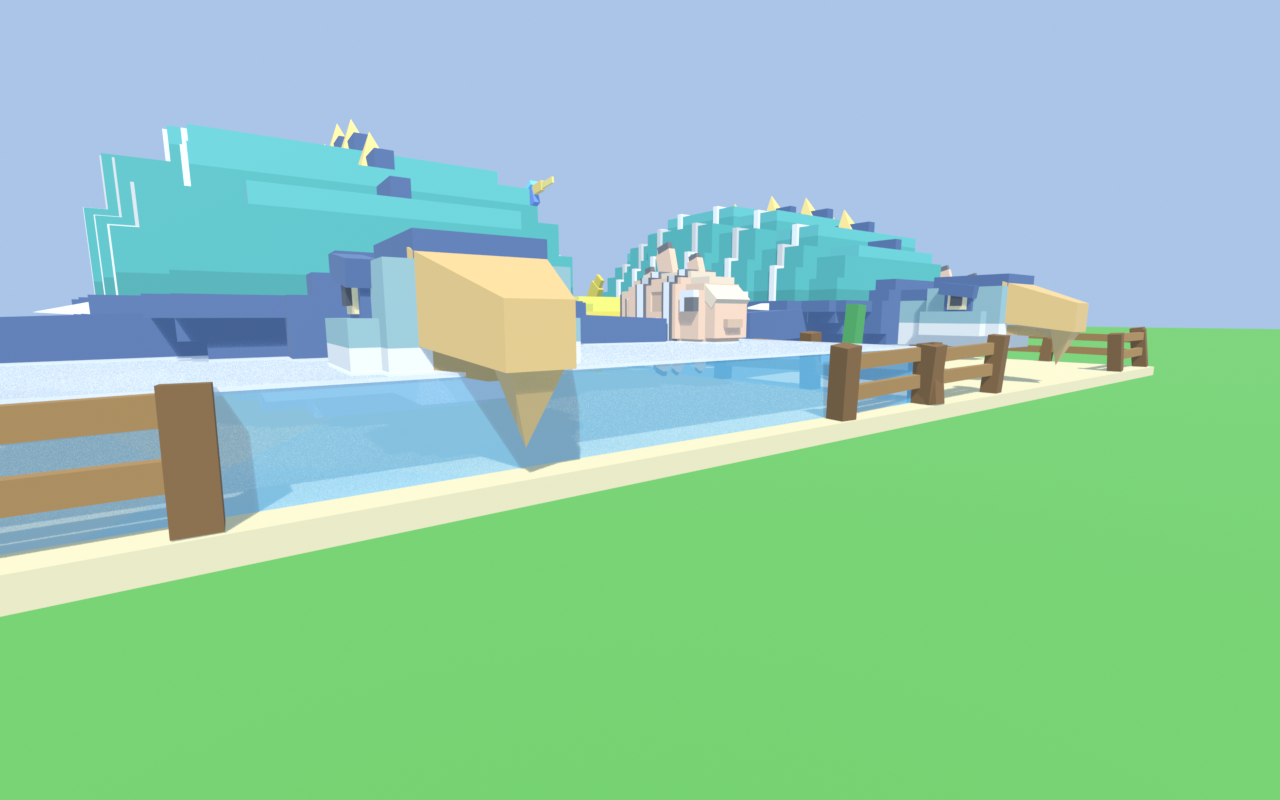
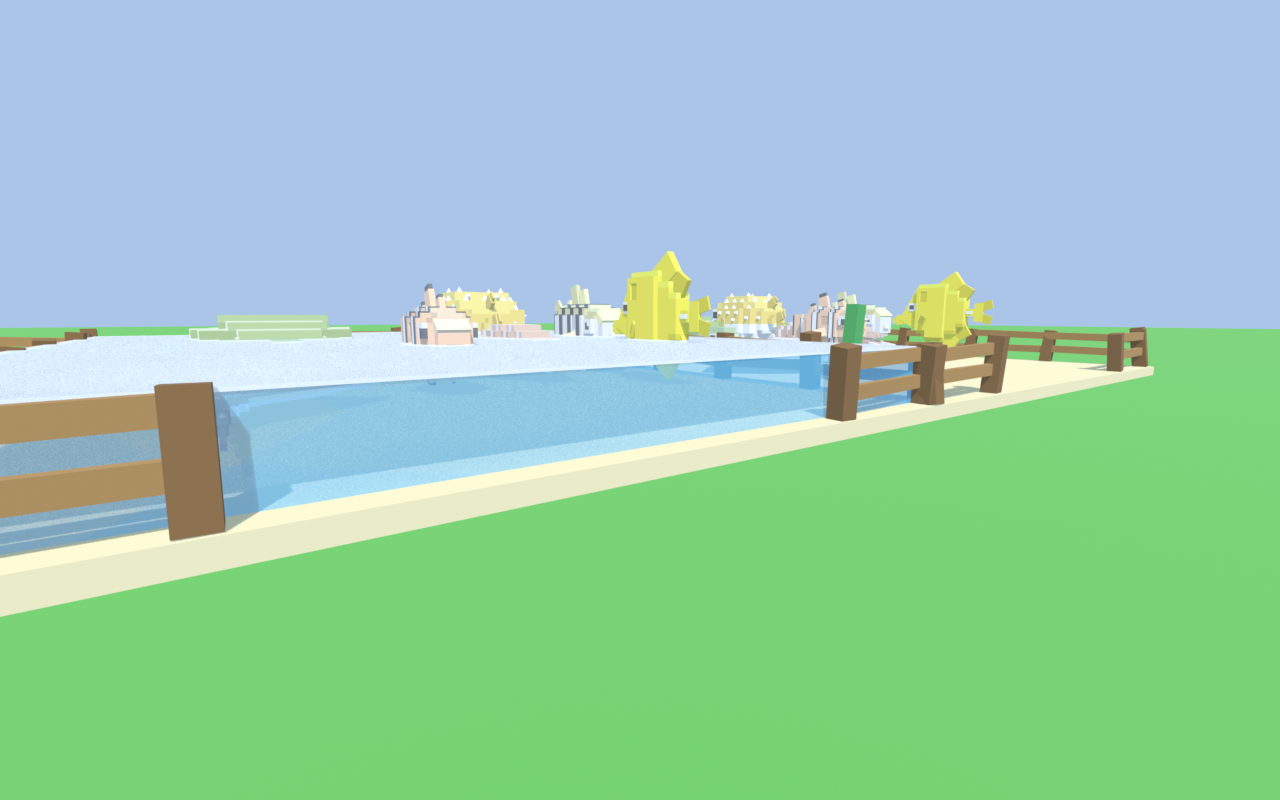
Hub review 2 corrected: S at the reference's 230 x 180 with eight pens (checked), R dropped, fish at their true sizes

Changed region(s): [[0.0, 0.1562, 0.875, 0.5938], [0.7812, 0.4688, 0.8125, 0.5]]

diff --git a/tools/map/hub_scale_plan.py b/tools/map/hub_scale_plan.py
@@ -1,10 +1,11 @@
 """The hub's scale against the reference's, from above, all at one scale (2026-11-22, the user: "the scale feels
 wrong, whether it's in the actual scale of the hub or the texture, or it's just the walk speed"). Three plans:
 ours as it stands (read from the place: art/map/hub_study/dump_2026-11-22.csv), the reference's (measured from our
-frames: docs/reference/ride-a-dino-map.md, "The hub, measured", good to about 15%), and R, ours at the reference's
-size with its pens (50 by 60, sharing fences, in a U). Schematic: walls as a line, pens as boxes.
+frames: docs/reference/ride-a-dino-map.md, "The hub, measured", good to about 15%), and S, ours at the reference's
+own size (230 by 180) with eight pens (50 by 60, sharing fences, in a U), checked: see check(). Schematic: walls as a line, pens as boxes.
 
 usage: python tools/map/hub_scale_plan.py [out.png]"""
+import math
 import os
 import sys
 
@@ -92,31 +93,49 @@ ref = panel("The reference: about 230 x 180, pens 50 x 60, fence 4 high",
             "own pen to the strip 110 (4 s at 28) | stalls 17-25 off the strip | pens drawn, not measured",
             (-115, 115, -210, 0), ref_pens, (-48, 48, -30, 0), (0, -100), [((-75, -150), (-20, -30), "110")],
             None)
-# R: ours at about the reference's size with all eight pens and every station: 290 x 196. The back four face the
-# strip; the side pens stand against the side walls with their gates on the inner face, clear of the back row's corners
-r_pens = [(-100, -50, -220, -160), (-50, 0, -220, -160), (0, 50, -220, -160), (50, 100, -220, -160),
-          (-145, -95, -155, -95), (-145, -95, -95, -35), (95, 145, -155, -95), (95, 145, -95, -35)]
-r_things = (stations((-30, -62), (30, -62), (0, -122), (-71, -49), (70, -48), (-72, -36))
-            + trainers([(-75, -152), (-25, -152), (25, -152), (75, -152), (-87, -125), (-87, -65), (87, -125), (87, -65)]))
+GATE, REACH = 12, 8  # a gate's width, and the clear floor wanted in front of it
 
 
-def overlaps(pens, things):
-    """every pair of boxes that overlap (touching is fine): the pens, the stations and the pads"""
-    boxes = [("pen%d" % i, a, b, c, e) for i, (a, b, c, e) in enumerate(pens)]
-    boxes += [(t[4] or "box", t[0] - t[2] / 2, t[0] + t[2] / 2, t[1] - t[3] / 2, t[1] + t[3] / 2) for t in things]
-    bad = []
-    for i, p_ in enumerate(boxes):
-        for q in boxes[i + 1:]:
-            if p_[1] < q[2] and q[1] < p_[2] and p_[3] < q[4] and q[3] < p_[4]:
-                bad.append((p_[0], q[0]))
+def check(name, hub, strip, pens, things, gates):
+    """what a sketch must keep: nothing overlaps, all of it inside the hub and off the strip, every gate with REACH studs
+    of clear floor in front. gates: (x, z, dx, dz) the gate's middle and the way out of the pen. Returns each gate's
+    straight line to the strip's inner edge"""
+    boxes = [("pen%d" % (i + 1), a, b, c, e) for i, (a, b, c, e) in enumerate(pens)]
+    boxes += [("%s@%g,%g" % (t[4] or "pad/board", t[0], t[1]), t[0] - t[2] / 2, t[0] + t[2] / 2, t[1] - t[3] / 2, t[1] + t[3] / 2) for t in things]
+
+    def hit(p_, q):
+        return p_[1] < q[2] and q[1] < p_[2] and p_[3] < q[4] and q[3] < p_[4]
+
+    bad = [(p_[0], q[0]) for i, p_ in enumerate(boxes) for q in boxes[i + 1:] if hit(p_, q)]
+    sbox = ("strip",) + tuple(strip)
+    bad += [(p_[0], "strip") for p_ in boxes if hit(p_, sbox)]
+    bad += [(p_[0], "outside") for p_ in boxes if p_[1] < hub[0] or p_[2] > hub[1] or p_[3] < hub[2] or p_[4] > strip[2]]
+    walks = []
+    for i, (x, z, dx, dz) in enumerate(gates):
+        ax, az = x + dx * REACH / 2, z + dz * REACH / 2
+        hx, hz = (REACH / 2, GATE / 2) if dx else (GATE / 2, REACH / 2)
+        lane = ("gate%d" % (i + 1), ax - hx, ax + hx, az - hz, az + hz)
+        bad += [(lane[0], q[0]) for q in boxes if hit(lane, q)]
+        walks.append(round(math.hypot(max(abs(x) - strip[1], 0), strip[2] - z)))
+    print(name, "gates to the strip", walks, "BAD " + str(bad) if bad else "ok")
     return bad
 
 
-assert not overlaps(r_pens, r_things), overlaps(r_pens, r_things)
-r = panel("R (a sketch): 290 x 196, eight pens 50 x 60, every station",
-          "back pen to the strip 128 | side pens 5 to 60 | the stalls on the way out",
-          (-145, 145, -228, 0), r_pens, (-48, 48, -32, 0), (0, -88), [((0, -160), (0, -32), "128")],
-          (-95, 95, -160, -32), things=r_things)
+# S: the reference's own size, 230 wide and 180 from the strip's inner edge (z -32) to the back wall (z -212). Four pens
+# on the back; two down each side, 50 into the hub and 60 along the wall, which leaves 15 studs of each back corner
+# pen's front open: its gate is there
+s_pens = [(-100, -50, -212, -152), (-50, 0, -212, -152), (0, 50, -212, -152), (50, 100, -212, -152),
+          (-115, -65, -152, -92), (-115, -65, -92, -32), (65, 115, -152, -92), (65, 115, -92, -32)]
+s_gates = [(-57.5, -152, 0, 1), (-25, -152, 0, 1), (25, -152, 0, 1), (57.5, -152, 0, 1),
+           (-65, -122, 1, 0), (-65, -72, 1, 0), (65, -122, -1, 0), (65, -72, -1, 0)]
+s_things = [(-26, -60, 29, 20, "Sell", RED), (26, -60, 29, 20, "Auras", PURPLE), (22, -118, 29, 41, "Fuse", BLUE),
+            (-27, -108, 47, 18, "Index", GOLD), (55, -47, 20, 29, "Sub", TEAL), (-60, -46, 8, 26, "", GREY)]
+s_things += trainers([(-45, -146), (-8, -146), (8, -146), (45, -146), (-58, -104), (-58, -87), (58, -104), (58, -87)])
+assert not check("S", (-115, 115, -212, 0), (-48, 48, -32, 0), s_pens, s_things, s_gates)
+r = panel("S (a sketch): their size, 230 x 180, eight pens 50 x 60",
+          "back gates to the strip 120 (4.3 s) | side gates 92 and 43 | no sign boards drawn",
+          (-115, 115, -212, 0), s_pens, (-48, 48, -32, 0), (0, -88), [((-25, -152), (-25, -32), "120")],
+          (-65, 65, -152, -32), things=s_things)
 sheet = Image.new("RGB", (int(PANEL_W) * 3 + 20, int(PANEL_H)), (255, 255, 255))
 for i, im in enumerate((now, ref, r)):
     sheet.paste(im, (i * (int(PANEL_W) + 10), 0))

diff --git a/tools/map/pen_bench.py b/tools/map/pen_bench.py
@@ -106,22 +106,32 @@ def p3_sand(k, x0, x1, z0, z1):
     FITS[:] = game_fish(k, x0, x1, z0, z1, 1.0)
 
 
-GAME_FISH = [("Archelon", 50), ("Dunkleosteus", 40), ("Barracuda", 30), ("MantaRay", 24), ("Angelfish", 16),
-             ("Boxfish", 14), ("Clownfish", 12)]  # name, length in the game (studs); biggest first
-# each model's box in its own file (width, height, length), from the glb: art/creatures/<Name>/game/<Name>.glb
-GLB = {"Archelon": (15.0, 8.4, 20.7), "Dunkleosteus": (12.1, 8.4, 12.1), "Barracuda": (3.4, 4.8, 9.0),
-       "MantaRay": (7.7, 3.1, 11.2), "Angelfish": (2.0, 10.2, 7.8), "Boxfish": (3.7, 3.5, 6.4), "Clownfish": (5.7, 7.6, 7.6)}
+# each model's true box (across, high, along; studs, the glb with its nodes' moves applied, as hub_view.py prints it)
+# and the game's own scale (src/shared/Config.luau, BaseScale): a Normal one's size in the sea and, at ShowShare 1, in
+# its tank. Sea Turtle 25 long and Stingray 27 match Config's own comment. A bigger size roll is bigger still
+FISH = {"Clownfish": ((5.7, 7.6, 10.1), 1.05), "SergeantMajor": ((6.3, 8.5, 12.7), 1.05), "YellowTang": ((2.8, 7.8, 9.8), 1.4),
+        "Pufferfish": ((9.0, 6.0, 10.0), 1.5), "Cuttlefish": ((6.2, 3.2, 13.0), 1.45), "SeaTurtle": ((15.8, 3.2, 14.3), 1.75),
+        "Stingray": ((16.0, 2.1, 23.4), 1.15), "ReefShark": ((9.8, 7.6, 17.3), 2.1), "Archelon": ((32.9, 8.4, 29.9), 1.7),
+        "Dunkleosteus": ((12.1, 8.5, 26.2), 2.0), "Barracuda": ((3.4, 4.8, 20.4), 1.4), "MantaRay": ((24.0, 2.8, 21.7), 2.1),
+        "Orca": ((12.6, 11.4, 29.2), 1.9), "BlueWhale": ((20.1, 21.3, 46.0), 2.2), "Kraken": ((23.6, 21.3, 47.8), 1.9),
+        "Megalodon": ((26.9, 18.6, 42.0), 1.9)}
+SETS = {"the Shallows' seven": ["SeaTurtle", "Stingray", "Cuttlefish", "Pufferfish", "YellowTang", "SergeantMajor", "Clownfish"],
+        "a middle seven": ["Archelon", "MantaRay", "Dunkleosteus", "Orca", "ReefShark", "Barracuda", "SeaTurtle"],
+        "a late seven": ["BlueWhale", "Kraken", "Megalodon", "Archelon", "Orca", "Dunkleosteus", "MantaRay"]}
 
 
-def game_fish(k, x0, x1, z0, z1, lift):
+def sized(name):
+    (w, h, l), k_ = FISH[name]
+    return w * k_, h * k_, l * k_, k_
+
+
+def game_fish(k, x0, x1, z0, z1, lift, names=SETS["the Shallows' seven"]):
     """the fish at their game length (Aquarium.ShowShare 1), resting just over the floor, biggest first from the back
     fence (z0), none overlapping, as many as fit: a fish that has no room is left out. Returns the names placed"""
     inset, gap, step = 1.5, 1.0, 1.0
     taken, placed = [], []
-    for name, long in GAME_FISH:
-        w, h, l = GLB[name]
-        k_ = long / l
-        w, h = w * k_, h * k_
+    for name in sorted(names, key=lambda n: -sized(n)[0] * sized(n)[2]):
+        w, h, long, k_ = sized(name)
         spot = None
         z = z0 + inset
         while spot is None and z <= z1 - inset:
@@ -138,7 +148,8 @@ def game_fish(k, x0, x1, z0, z1, lift):
         if spot:
             x, z, sx, sz, yaw = spot
             taken.append((x, x + sx, z, z + sz))
-            k.fish(name, x + sx / 2, PLATE + lift + h / 2, z + sz / 2, k_, yaw=yaw)
+            if k:
+                k.fish(name, x + sx / 2, PLATE + lift + h / 2, z + sz / 2, k_, yaw=yaw)
             placed.append(name)
     return placed
 
@@ -150,7 +161,12 @@ def build():
     z0, z1 = -D / 2, D / 2
     for (fill, a, b) in ((p1_pool, xs[0], xs[1]), (p2_rail, xs[1], xs[2]), (p3_sand, xs[2], xs[3])):
         fill(k, a, b, z0, z1)
-    print("fits in one pen:", ", ".join(FITS))
+    for label, names in SETS.items():
+        for w, d in ((W, D), (52, 84)):
+            fits = game_fish(None, 0, w, 0, d, 0, names)
+            print(label, "in %g x %g:" % (w, d), len(fits), "of", len(names), fits)
+    for n in sorted(FISH, key=lambda n: sized(n)[2]):
+        print("  %-14s %.1f across, %.1f long, %.1f high" % (n, sized(n)[0], sized(n)[2], sized(n)[1]))
     # the fences: the back, the shared sides, each pen's front with its gate gap
     along(k, (xs[0], z0), (xs[3], z0))
     for x in xs:

diff --git a/docs/Sessions.md b/docs/Sessions.md
@@ -10,7 +10,7 @@ can build and check each other's work.
 |---|---|---|---|
 | [Ride a Fish creatures](claude://claude.ai/epitaxy/local_ac56bee0-dae0-4cd9-8e53-a67a713dfd13) (took over 2026-11-22 from "Ride a Fish game concept", retired; Fable 5.2) | The voxel creatures' look, remodels and colours (start brief: [handoffs/creature-concept](handoffs/creature-concept.md)). **2026-11-22: leviathans, on the user's word** ([workout 12](style/12-leviathans.md)): the Scythe Leviathan first (`art/creatures/ScytheLeviathan`, built and fixed once, gate passes, not exported, not in the game; waiting for the user's read), then more in other body plans. Workouts 9, 10 and 11 are set aside ([Decisions](Decisions.md)). Last work, by the old chat: [workout 10](style/10-sharks-round-2.md) (six shark trials, Megalodon V3), [workout 11](style/11-rare-wow-study.md) (the Ride a Dino rare-dino study, seven rare trials), and the land recolour ([the list](design/fish-recolour-list.md), done: 78 keep) | `tools/blender/voxel_kit.py`, `tools/blender/kit_common.py`, `tools/art/rarity_ladder.py`, `tools/art/fish_value_recolour.py`, `art/creatures/*/voxel.py`, `art/style/rarity_ladder/`, `docs/style/04-voxel-style.md`, `docs/style/05-rarity-look.md`, `docs/design/creature-queue.md`, `docs/style/creature-brief.md`, `tools/art/voxel_*.py`, `tools/blender/check_glb.py`, `art/creatures/*/game/`, `docs/style/06-textures.md`, `tools/art/creature_tiles.py`, `art/style/tiles/`, `docs/style/Style workouts.md`, `docs/design/roster.md`, `docs/design/roster-list.md`, `docs/attachments/voxel-*` and `rarity-*`, `.claude/skills/creature-look/SKILL.md` (the voxel and rarity rules) | Not using it. Nothing is uploaded |
 | [Ride a Fish game code](claude://claude.ai/epitaxy/local_f2cc01b4-ccd3-4459-947a-63121309af17) (took over 2026-11-22 from [Obsidian chat integration](claude://claude.ai/epitaxy/local_e63fbb3e-8d03-486a-abb0-ff395624b3e4), retired; Fable 5.2 at high) | The game code: `src/`, merging Hugo's pushes, pushing the other chats' work, checking the map, UI and tuning chats' pieces. Start brief: [game-code](handoffs/game-code.md). The slower hook ([feel review 3](reviews/feel-review-3.md), A and B) played by hand by the user 2026-11-22, no changes asked. **Written 2026-11-22 for a sale of the game:** a [code map](Code%20map.md), contents lists and section markers in the twelve largest code files (comment lines only), the [check of what to sort](reviews/code-organisation.md) and the [handover plan](plans/sale-readiness.md); **The safe tidy batch done on the user's word** ("tidy as such, just make sure you dont break anything"; [Decisions](Decisions.md)): `ce30041` the `--help/` folder, `8a427ce` dead code, `5dd24f5` comments, `d422ac6` guards in both `Main`; list under "Done" in the check. Checked by StyLua, selene and the Rojo build, then **played in Studio**: boots clean, a scripted dive, `oxygen_check` 12/12 and `e4_land_check` 10/10 pass; the guard tried with broken throwaway modules on both sides; the tank panel, Shop, Sell and the Aura shop open clean; `b4_tank_ride_check` passes after a fix to the check itself (its hold dropped the pretended look for a frame); `tank_panel_check` is out of date (`CollectPad`). All pushed by the vault's auto-sync (23:03). Next: the user's word (the unpicked UI looks, the two renames, stage 1 of the handover plan). Waiting on the user: the fish count (20 now, 40 measured best), the map chat's three herd ideas, whether to push the map chat's `parts.json` studies. Waiting on the user and Hugo: which fish icons stay, which fast-fish allowance stays in `RideService` (`nearness` or `Jump.LandLag`) | `src/` apart from the files in the UI and tuning chats' rows; `.claude/skills/game-code/SKILL.md`; `tools/review/`, `docs/reviews/`; `docs/Handoff.md` entries for this PC's pushes. Nothing half-done | Not using it (2026-11-22: the play check of the tidy batch; today's `src/` synced into the place, back in Edit, mouse and camera reset, not saved; id a7b6fa89). Before: the red-in-a-row rule pushed into the place by script (Config, RideService, ShakeController, SandboxController) and checked in Play; back in Edit, mouse and camera reset, not saved; id a7b6fa89) |
-| [Ride a Fish map](claude://claude.ai/epitaxy/local_257d6d0c-f735-40b9-a06b-abb677deb1bb) (took over 2026-11-22 from the old [Ride a Fish map](claude://claude.ai/epitaxy/local_358148f9-feae-424c-a34f-369791ac2c42), retired; Opus 5.5, Fable 5.2 advises) | The map and the hub. Start brief: [handoffs/map](handoffs/map.md). **Last work (2026-11-22): square studs** (Roblox's own stud in our picture, `tile3`; [map-structure](design/map-structure.md), "Square studs"), swapped on the loaded place with no reload; before it the hub's W32 ([hub-layout](design/hub-layout.md), "Picked: W32"). Saved by the user's word (version 357). **Then hub review 2** ([hub-review-2](design/hub-review-2.md), `5e38698`, `3869c5b`: scale, open pens, layout R, water see-through): waiting on the user's picks. Next: the user's call (the seven parked art steps are the standing list). Before that, by the old chat: the far view as real models (`Workspace.FarView`) and the painted sky fallback for low graphics (the game-code chat's). Then the seven parked art steps (the brief) | `tools/studio/claude_blockout.luau`, `tools/studio/bake_map.luau`, `tools/studio/depth_look_test.luau`, `tools/art/map_plot.py`, `tools/art/map_tiles.py`, `tools/art/map_roblox_textures.py`, `tools/map/` (the grey-box generator and the asset kit), `tools/blender/map_greybox_view.py`, `tools/studio/greybox/` (generated: the Studio loader), `art/map/`, `tools/blender/map_stud_test.py`, `art/blockout/`, `art/props/`, `art/style/map_tiles/`, `docs/blockout.md`, `docs/map-state.md`, `docs/design/map-method.md`, `docs/design/map-structure.md`, `tools/studio/map_bench.luau`, `tools/studio/texture_test.luau`, `docs/reference/ride-a-dino-map.md`, `docs/attachments/map-*` and `blockout-*` | Free (2026-11-22: the W32 hub, square studs and the matte map saved to Roblox, version 357, on the user's word) |
+| [Ride a Fish map](claude://claude.ai/epitaxy/local_257d6d0c-f735-40b9-a06b-abb677deb1bb) (took over 2026-11-22 from the old [Ride a Fish map](claude://claude.ai/epitaxy/local_358148f9-feae-424c-a34f-369791ac2c42), retired; Opus 5.5, Fable 5.2 advises) | The map and the hub. Start brief: [handoffs/map](handoffs/map.md). **Last work (2026-11-22): square studs** (Roblox's own stud in our picture, `tile3`; [map-structure](design/map-structure.md), "Square studs"), swapped on the loaded place with no reload; before it the hub's W32 ([hub-layout](design/hub-layout.md), "Picked: W32"). Saved by the user's word (version 357). **Then hub review 2** ([hub-review-2](design/hub-review-2.md), `5e38698`, `3869c5b`: scale, open pens, layout S, water see-through): waiting on the user's picks. Next: the user's call (the seven parked art steps are the standing list). Before that, by the old chat: the far view as real models (`Workspace.FarView`) and the painted sky fallback for low graphics (the game-code chat's). Then the seven parked art steps (the brief) | `tools/studio/claude_blockout.luau`, `tools/studio/bake_map.luau`, `tools/studio/depth_look_test.luau`, `tools/art/map_plot.py`, `tools/art/map_tiles.py`, `tools/art/map_roblox_textures.py`, `tools/map/` (the grey-box generator and the asset kit), `tools/blender/map_greybox_view.py`, `tools/studio/greybox/` (generated: the Studio loader), `art/map/`, `tools/blender/map_stud_test.py`, `art/blockout/`, `art/props/`, `art/style/map_tiles/`, `docs/blockout.md`, `docs/map-state.md`, `docs/design/map-method.md`, `docs/design/map-structure.md`, `tools/studio/map_bench.luau`, `tools/studio/texture_test.luau`, `docs/reference/ride-a-dino-map.md`, `docs/attachments/map-*` and `blockout-*` | Free (2026-11-22: the W32 hub, square studs and the matte map saved to Roblox, version 357, on the user's word) |
 | [Ride a Fish tuning](claude://claude.ai/epitaxy/local_d259367a-4c64-4c4b-9f1d-7b706dfabfe9) (took over 2026-11-22 from [Fish speed, rarity and progression tuning](claude://claude.ai/epitaxy/local_6fac1304-348d-4e99-b768-bb36f2e1c373), retired; Opus 5.5, Fable 5.2 advises) | The Oxygen, taming, seahorse, aura and tank numbers: [progression](design/progression.md). Start brief: [handoffs/tuning](handoffs/tuning.md). In the game: task e1 (each fish's own whole need). **Changing no Config number until the user says go.** 2026-11-22: the economy's draft 2 (Ride a Dino's progression, needs to 4.65B in land 10 and 351B at the top, a free player at land 10 in about 31 h, their prices coin for dollar, an Index paying Oxygen; [progression](design/progression.md), `tools/balance/rad_economy.py`) and the red-in-a-row rule (x0.7 a red fish, `model.py --redchain`) are written, waiting on the user's and Hugo's picks (the table at the draft's end). Draft 1 is superseded | `tools/balance/`, `docs/design/progression.md`; in `src/shared/Config.luau` only `OxygenBase`, `RarityOxygen`, `SizeOxygen`, `VariantOxygen`, `SpecialOxygen`, `Oxygen` (`StartMax`, `KeepUp`, `StrainTime`, `FreeDrain`), `Train`, `Tame`, `Aquarium` (`PerRequired`, `Silver`, `Gold`, `Rainbow`), `ZoneMix` and its `Mix...` names, `ReachWeight` (edited only when the game-code chat or the user hands them over) | Not using it |
 | [Ride a Fish UI](claude://claude.ai/epitaxy/local_efb7934c-265a-466d-a815-225ef56f7077) (took over 2026-11-22 from the [old UI chat](claude://claude.ai/epitaxy/local_426bf1fd-b0e5-4958-9e40-76a72fc5af12), retired; Opus 5.5, Fable 5.2 advises; the game-code chat checks its work) | What the player sees on screen ([UI](design/ui.md)). Start brief: [handoffs/ui](handoffs/ui.md). **Last work (2026-11-22, the user's ask): [UI review 1](design/ui-review.md)**, committed `df5c7d1`, `d7b00fc`: the dock's windows in one studded frame, Sell and Auras open on their stall rings (`Controllers/StallController`), the Shop its own screen (`UI/ShopScreen`, offers in `Shared/Products`, all Soon), the deposit lines (`UI/DockNotes`), and motion everywhere (`UI/Anim`); checked in three Studio passes by numbers, not played by hand. Open from it: the tame ring's motion, cards leaving one by one on a sale, a phone check, the dive HUD's restyle (proposed), the inventory bar's suggestions, the Shop's real offers (ids, prices, the server's grant). **Then (the user's):** run `research/fish_icons_chatgpt/PROMPTS.md` in ChatGPT and save into `3_results/`, then this chat aligns them. Waiting on the user and Hugo: which icons the game keeps, what clicking a slot does; the slots' size and variant tags wait on the game-code chat ("later"). Last pieces, by the old chat (2026-11-17 to 22, on the user's word): the coins/Oxygen rows, Shop and Index buttons, the catch slots as the reference's (highlight band on the chosen slot only), the fish pictures (busts cut on the model, one angle, squids by the head, a thinner outline), a study of the reference's icons, and every fish rendered in the new colours with a ChatGPT folder and two-step prompt for drawn icons (`research/fish_icons_chatgpt/`, nothing generated yet) | `src/client/UI/` (Portrait, Slots, StatRows, HubButtons, Kit, Banners, Anim, Shop, ShopScreen, SellFish, AuraShop, TankPanel, TankPrompt, DockNotes, UpgradeSign, SubPanel, HopButton, Aim, LandStrip), `src/client/Controllers/HudController.luau`, `StallController.luau`, `src/shared/Products.luau`, `docs/design/ui-review.md`, `docs/design/ui.md`, `docs/attachments/ui*`, `tools/ui/`, `art/ui/`, `research/ride-a-dino/ui/`, `research/fish_icons_chatgpt/` (private) | Free (2026-11-22: in Edit, `src` synced with the cards' stagger, not saved; mouse and camera reset) |
 
@@ -47,10 +47,10 @@ The links open the chat in the Claude app on the PC it runs on.
   yes) and a plan for handing the game to another team.
 - **2026-11-22, Ride a Fish map to the game-code chat: hub review 2, a study, nothing in the place or `src/` changed.**
   [hub-review-2](design/hub-review-2.md) proposes open pens (a low wobbly fence round a plate) in place of the glass
-  tanks, and a smaller hub (R, 290 x 196). Nothing to do until the user picks; then these are yours to confirm: the pens
+  tanks, and a smaller hub (S, 230 x 180, the reference's size; R is dropped). Nothing to do until the user picks; then these are yours to confirm: the pens
   as drawn have no `SignBoard`, `TrainerSpot`, `TankSurface` or rims (`AquariumService` `LIFTED`); `TankWater` could stay
-  as an unseen swim box; fence posts are named `FencePost` so `STRETCHED` leaves them; at `ShowShare` 1 a pen is crowded
-  (fine, the reference's are too) but fish would need to sit low and spread, not float in a heap. Also
+  as an unseen swim box; fence posts are named `FencePost` so `STRETCHED` leaves them; at `ShowShare` 1 (Hugo's b4,
+  kept) the Shallows' seven fit a 50 x 60 pen, bigger fish go over the fence; they would sit low, not lap in a heap. Also
   `tools/studio/water_see_buttons.luau` (water see-through live in Play) waits for Studio.
 - **2026-11-22, Ride a Fish UI to the game-code chat: UI review 1 committed (`df5c7d1`, `d7b00fc`). Studio is free.**
   Touched in `Controllers/`: `AuraController` (no hub-button hooks; `shop`/`shopOpen` kept for `b2_shop_check.py`) and

diff --git a/docs/design/hub-review-2.md b/docs/design/hub-review-2.md
@@ -14,7 +14,7 @@ tell me other things we could do for the water".
   (`art/map/hub_study/dump_2026-11-22.csv`, by `tools/studio/hub_dump.luau`). Compared part by part with the W32
   build, **no hand moves were found** in the hub: the changes are from code (the collect pads gone, upgrade signs on
   the tanks). If something was changed by hand, it is outside the hub's box or was put back; the user to say what.
-- **Also found:** `Workspace.FarView` is gone; its parts now sit in folders `Part1` to `Part4` (z 1295 to 10022).
+- **Also found** (read while Play was running; to confirm in Edit): `Workspace.FarView` is gone, which `LookController` looks for by name; its parts now sit in folders `Part1` to `Part4` (z 1295 to 10022).
   `CosmicHollowDisplay` stands just outside the hub's right wall (x 3355, z -166).
 - **The reference:** our measured reading ([ride-a-dino-map](../reference/ride-a-dino-map.md), "The hub, measured",
   good to about 15%) and the frame of its pens (`research/ride-a-dino/map/H1.jpg`, private).
@@ -29,7 +29,7 @@ tell me other things we could do for the water".
 | **The studs** | one every **1.0** stud, on an 8-stud checker | one every **0.64**, no checker on the hub floor | Ours are 1.56 times bigger. At the same speed the ground slides past 1.56 times slower in studs, so running *looks* slower and the world bigger |
 | Camera | not measured | not measured | One capture framed like H1 would settle it |
 
-![ours, the reference, and R, all at one scale](../attachments/hub-scale-plans.png)
+![ours, the reference, and S, all at one scale](../attachments/hub-scale-plans.png)
 
 **Reading:** the size of the hub and the height of the tanks are most of it, and the big studs add to it.
 
@@ -52,18 +52,24 @@ The fence close up: every post leans its own way, stands a little in or out of t
 
 ![the front fence of the middle pen, close](../attachments/hub-pens-fence.png)
 
-**The fish at game size** (`Aquarium.ShowShare` 1: a tank shows its fish at their real length). The bench puts the
-game's fish in each pen at their game length (these seven: 12 to 50; the game allows up to 200, `Config.SizeLimit`),
-resting just over the floor, biggest first from the back fence, none overlapping, as many as fit:
+**The fish at their real size** (`BaseScale` times each model's true box; a Normal one, no bigger size roll), resting
+just over the floor, none overlapping, by a simple packing (`pen_bench.py` prints it):
 
-![the pens with the fish that fit, at game size](../attachments/hub-pens-game.png)
+![the pens with the Shallows' seven at their real size](../attachments/hub-pens-game.png)
 
-**Four of seven fit in a 50 x 60 pen:** the Archelon (50 long, 36 wide with its flippers) and three small ones. The
-Dunkleosteus (40) and the Barracuda (30) have no room left. The big ones spill over the low fence; the reference's do
-the same (H1: a Brachiosaurus or a Baryonyx is as long as its pen and stands far over its fence), so that much is the
-genre's look. Theirs stand on the sand side by side, each outline clear, and that is how fish would have to sit in a pen
-too. A tank holding more than about four fish, or a fish over about 55 long, needs one of: fewer on show, a smaller
-`ShowShare` in the pen, or bigger pens (which works against a smaller hub). The game-code chat's numbers.
+| Seven fish (a plot's first stage) | In a 50 x 60 pen | In today's 52 x 84 tank |
+|---|---|---|
+| the Shallows' seven (11 to 27 long) | **7** | 7 |
+| a middle seven (Archelon 51 long and 56 across, Manta 46 and 50, Dunkleosteus 52, Orca 56) | **2** | 3 |
+| a late seven (Blue Whale 101, Kraken 91, Megalodon 80) | **1** | 1 |
+
+So a pen at the reference's size holds a starter's fish easily, and later ones go over the fence, about as they go through
+the glass today. **Real size is Hugo's choice** (task b4, 2026-11-22: "make sure they retain their original size even if
+they clip through"), so showing them smaller would undo that: not proposed here. A fully upgraded plot shows 17.
+
+*(Corrected 2026-11-23. The earlier figure, "four of seven fit", was wrong: the models were measured without their nodes'
+moves, the Archelon came out about 1.4 times too big, one length was typed in by hand, and the Boxfish is no longer in the
+game.)*
 
 | | What it is | For | Against |
 |---|---|---|---|
@@ -83,13 +89,17 @@ To confirm with the game-code chat before any of it goes in; as far as the map c
   more inside.
 
 ## 3. Layout, and where the eye goes
-**R** (right in the plans, **a sketch**): 290 x 196 wall to wall, against ours 400 x 280 and theirs about 230 x 180.
-Eight pens of 50 x 60 sharing fences: four along the back facing the strip, two against each side wall with their gates
-on the inner face. Every station and trainer pad is drawn in and none overlap (`tools/map/hub_scale_plan.py` checks it),
-though it is tight: the Index and the Earners board sit in the front left corner, the Submarine in the front right.
-Back pen to the strip 128 (ours 180, theirs about 110), the side pens 5 to 60, an open floor of about 190 x 128. Going
-right down to their 230 x 180 does not fit eight pens and all our stations; it would need fewer pens or the stations
-set into the walls.
+**S** (right in the plans, **a sketch**): the reference's own size, 230 x 180. Eight pens of 50 x 60 sharing fences: four
+along the back, two down each side. The side pens run 50 into the hub and 60 along the wall, so 15 studs of each back
+corner pen's front stay open and its gate goes there. Open floor 130 x 120 (ours now 216 x 180). The back gates to the
+strip are 120 (4.3 s at 28; theirs about 110, ours now 180), the side gates 92 and 43, in straight lines.
+`tools/map/hub_scale_plan.py` checks it and stops if it fails: nothing overlaps, all inside the hub and off the strip,
+8 clear studs in front of every gate. Every station is drawn at its present footprint. **Not drawn:** the plots' sign
+boards and upgrade signs, and the arch. It is full: the Submarine, Index and Fuse would be the first to shrink.
+
+*(Corrected 2026-11-23: R, 290 x 196, is dropped. It was said that 230 x 180 does not fit eight pens, without drawing it;
+it does. R's "side pens 5 to 60" was the distance straight down the hub, not the walk, which was 57 and 104; and a
+trainer pad stood in front of every one of its gates.)*
 
 For attention, following the reference:
 - **The spawn on the line from the pens to the strip**, facing the strip. The strip, the gap and the herd beyond it are
@@ -100,8 +110,8 @@ For attention, following the reference:
 - The Fuse machine a little further back, the Earners board on the wall beside the gap, the Index and the Submarine at
   the strip's two ends.
 
-**Cost:** the hub's walls come from the generator, so R is one full map reload, which also re-scatters some lane props.
-Before that, a hub-only try build (the generator's hub options) would show the walls at R's size without the reload.
+**Cost:** the hub's walls come from the generator, so S is one full map reload, which also re-scatters some lane props.
+Before that, a hub-only try build (the generator's hub options) would show the walls at S's size without the reload.
 Pens, layout and size should be picked together and built in that one reload. The hand placing is read first and kept.
 
 **Answered (2026-11-22):** the old rule "never its look, models or layout" was not meant for the layout ("didnt mean to
